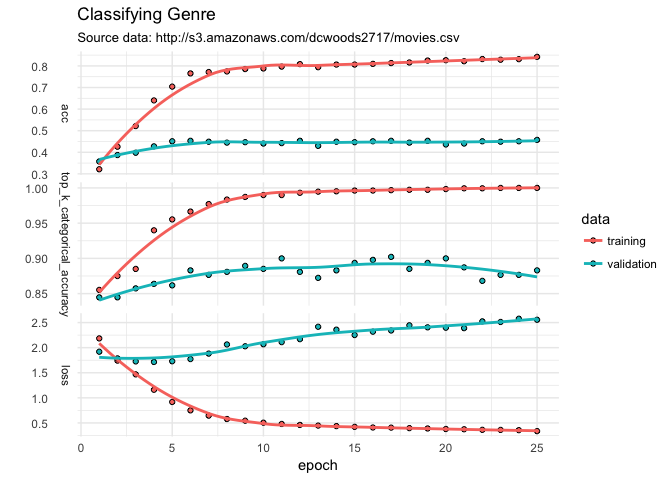
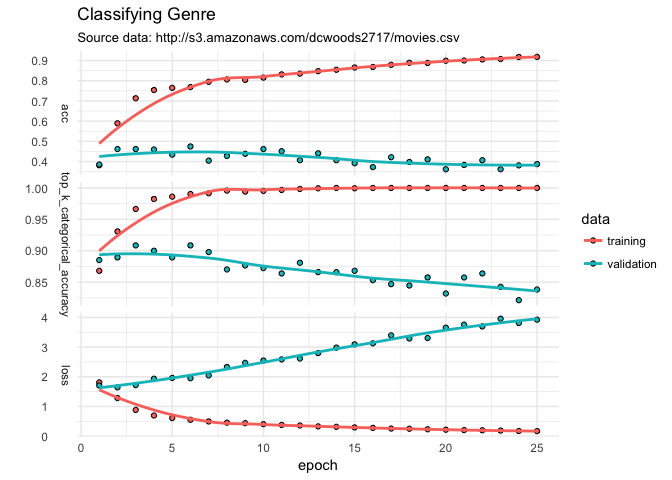
updating confusion table output

diff --git a/examples/movies/kms_with_aws_movie.md b/examples/movies/kms_with_aws_movie.md
@@ -5,8 +5,12 @@ Pete Mohanty
 AWS Movie Data with kerasformula
 --------------------------------
 
+This document shows how to fit a neural net with `kerasformula` using an Amazon AWS database of about 3,000 popular movies.
+
 ``` r
 library(kerasformula)
+library(ggplot2)
+
 movies <- read.csv("http://s3.amazonaws.com/dcwoods2717/movies.csv")
 dplyr::glimpse(movies)
 ```
@@ -25,6 +29,24 @@ dplyr::glimpse(movies)
     $ reviews             <int> 2, 107, 162, 164, 331, 349, 746, 863, 252,...
     $ rating              <dbl> 4.8, 6.3, 7.7, 7.8, 8.6, 7.7, 8.1, 8.2, 7....
 
+How the data are cleaned affects overfitting (models that do relatively well on training data compared to test data). The first model omits director, the second includes, and the third includes dummies for top director (by frequency of appearance in the data) and codes the rest as "other".
+
+``` r
+head(sort(table(movies$director), decreasing = TRUE))
+```
+
+
+     Steven Spielberg    Clint Eastwood   Martin Scorsese        Tim Burton 
+                   23                19                16                16 
+            Spike Lee Steven Soderbergh 
+                   15                15 
+
+``` r
+sum(table(movies$director) == 1)          # number of directors appearing only once
+```
+
+    [1] 788
+
 Classifying Genre
 -----------------
 
@@ -41,30 +63,66 @@ sort(table(movies$genre))
             202         288         498         738         848 
 
 ``` r
-out <- kms(genre ~ . -director -title, movies, seed = 12345)
+out1 <- kms(genre ~ . -director -title, movies, batch_size = 1, seed = 12345)
 
-plot(out$history) + labs(title = "Classifying Genre", 
+plot(out1$history) + labs(title = "Classifying Genre", 
                          subtitle = "Source data: http://s3.amazonaws.com/dcwoods2717/movies.csv", y="") + theme_minimal()
 ```
 
-![](kms_with_aws_movie_files/figure-markdown_github-ascii_identifiers/unnamed-chunk-3-1.png)
+![](kms_with_aws_movie_files/figure-markdown_github-ascii_identifiers/unnamed-chunk-4-1.png)
 
-The classifier does quite well for the top five categories but struggles with rarer ones. Does adding director help?
+The model is only able to classify about half the movies by genre correctly. Does adding director help?
 
 ``` r
-out <- kms(genre ~ . -title, movies, seed = 12345)
+out2 <- kms(genre ~ . -title, movies, batch_size = 1, seed = 12345)
 ```
 
-![](kms_with_aws_movie_files/figure-markdown_github-ascii_identifiers/unnamed-chunk-5-1.png)
+![](kms_with_aws_movie_files/figure-markdown_github-ascii_identifiers/unnamed-chunk-6-1.png)
 
 Doesn't hurt much but introduces overfitting.... Including only the top directors doesn't make big improvements but doesn't have the overfitting issue.
 
 ``` r
 movies$top50_director <- as.character(movies$director)
 movies$top50_director[rank(movies$director) > 50] <- "other"
-out <- kms(genre ~ . -director -title, movies, seed = 12345)
+out3 <- kms(genre ~ . -director -title, movies, batch_size = 1, seed = 12345)
 ```
 
-![](kms_with_aws_movie_files/figure-markdown_github-ascii_identifiers/unnamed-chunk-7-1.png)
+![](kms_with_aws_movie_files/figure-markdown_github-ascii_identifiers/unnamed-chunk-8-1.png)
 
-For a more general introduction to that shows how to change loss, layer type and number, activation, etc. see package vignettes or this example using [Twitter data](https://tensorflow.rstudio.com/blog/analyzing-rtweet-data-with-kerasformula.html).  
+What's going on? The above plots show epoch-by-epoch training data vis-a-vis validation data. By default, `kms` holds out an additional 20% of the data as test data. That test data is used to construct a confusion matrix, or, when there are many categories, a table that reports the proportion correct as well as most common errors (`?confusion` for options). For example, comedies are most likely to be mistaken for dramas and actions for comedies. Biographies, a relatively rare category, are usually mistakan for dramas.
+
+``` r
+out1$confusion
+```
+
+             label   N pCorrect    MCE  pMCE      MCE2 pMCE2 pOther
+    1      Musical   1    0.000 Comedy 1.000      <NA> 0.000  0.000
+    2       Comedy 176    0.500 Action 0.290     Drama 0.142  0.068
+    3        Drama 105    0.371 Action 0.257    Comedy 0.257  0.114
+    4       Horror  28    0.607 Action 0.179    Comedy 0.107  0.107
+    5        Crime  44    0.023 Action 0.386    Comedy 0.227  0.364
+    6    Adventure  60    0.167 Action 0.450    Comedy 0.150  0.233
+    7    Biography  24    0.083  Drama 0.583    Action 0.167  0.167
+    8       Action 148    0.764 Comedy 0.115     Drama 0.068  0.054
+    9       Sci-Fi   1    0.000 Action 1.000      <NA> 0.000  0.000
+    10     Fantasy   7    0.000 Horror 0.571    Action 0.286  0.143
+    11     Mystery   4    0.000 Action 0.500     Drama 0.250  0.250
+    12   Animation   9    0.111 Action 0.444 Adventure 0.333  0.111
+    13 Documentary   5    0.400 Action 0.200    Comedy 0.200  0.200
+
+That means we can visualize the models' confusion like so:
+
+``` r
+out1$confusion$model <- "model1"
+out2$confusion$model <- "model2"
+out3$confusion$model <- "model3"
+
+cf <- dplyr::bind_rows(out1$confusion, out2$confusion, out3$confusion)
+
+ggplot(cf, aes(x = label, y = pCorrect, col=model, size=N)) + geom_point() + theme(axis.text.x = element_text(angle = 70, hjust = 1)) + ylim(c(0,1)) + 
+  labs(y = "Proportion Correct\n(out of sample)", x="Model Comparison", title = "Classifying Genre", subtitle = "Source data: http://s3.amazonaws.com/dcwoods2717/movies.csv")
+```
+
+![](kms_with_aws_movie_files/figure-markdown_github-ascii_identifiers/unnamed-chunk-10-1.png)
+
+The real choice appears to be between Model 1 and Model 3 with perhaps a faint edge to Model 1. `batch_size` was set to 1 to give the estimator more of fighting chance for rare outcomes. For a more general introduction to that shows how to change loss, layer type and number, activation, etc. see package vignettes or this example using [Twitter data](https://tensorflow.rstudio.com/blog/analyzing-rtweet-data-with-kerasformula.html).
